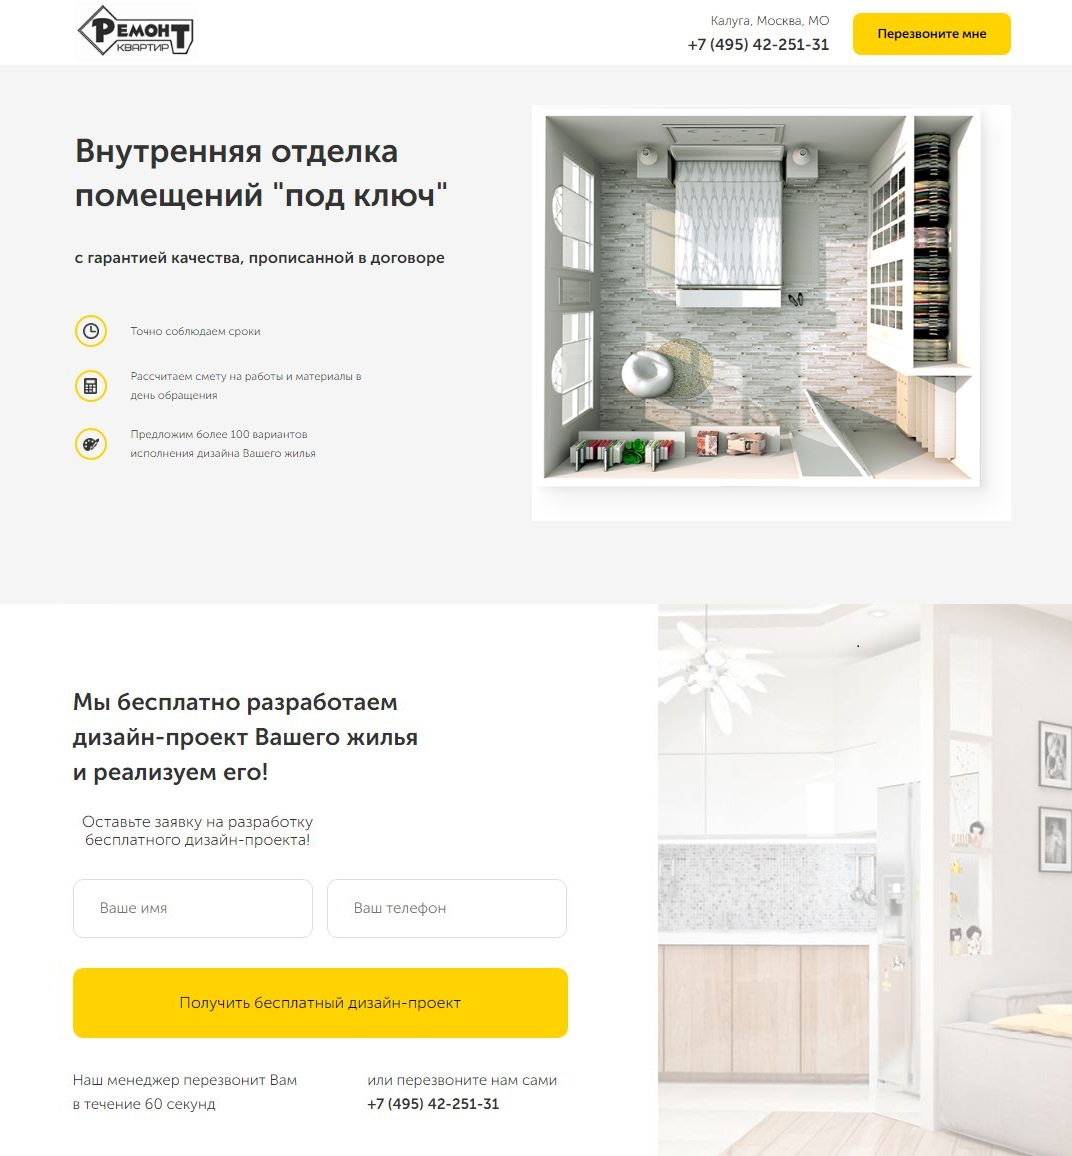
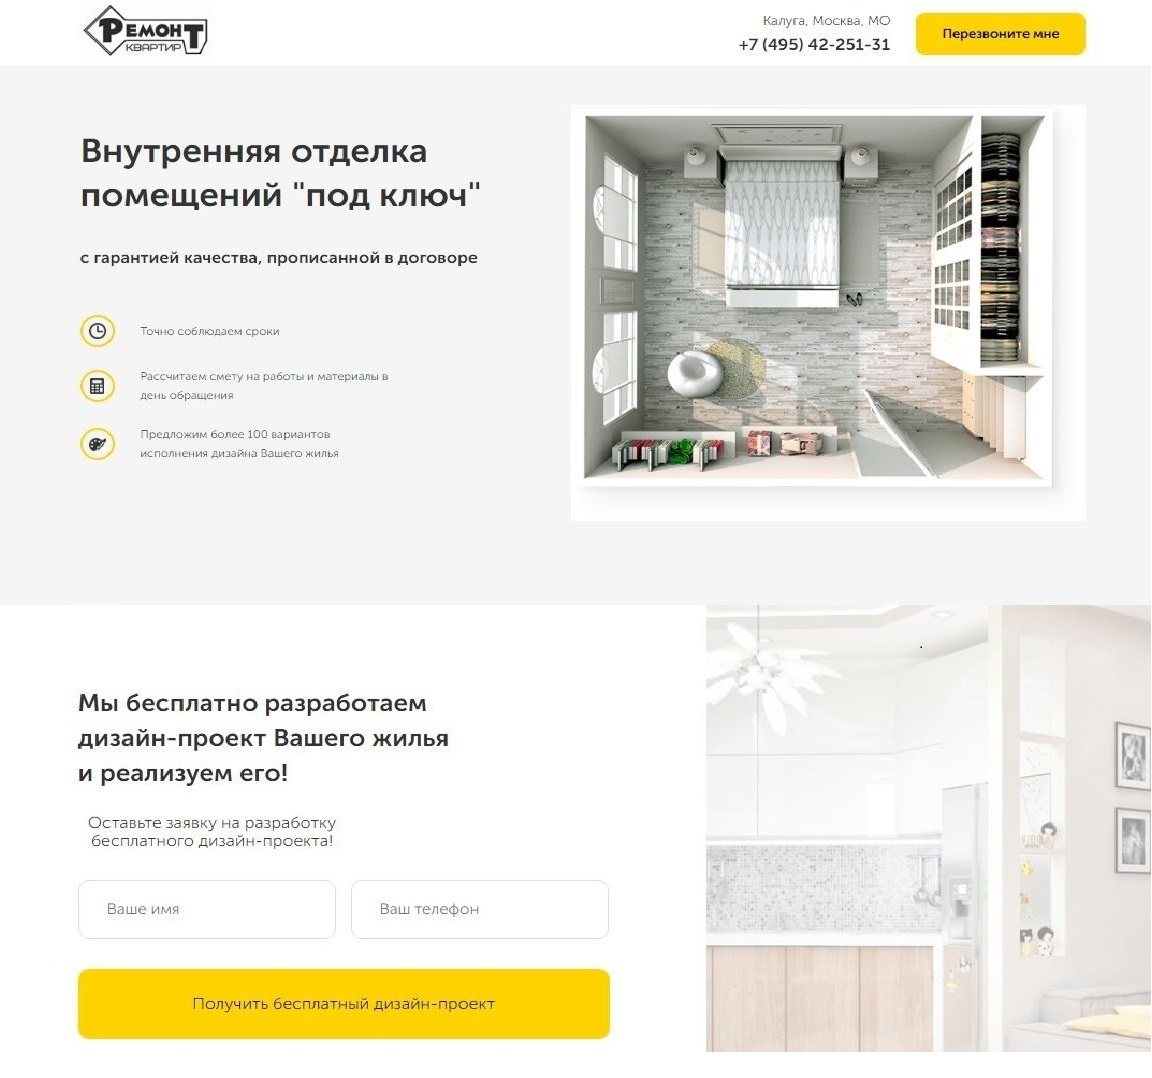
menu fixed by js

diff --git a/src/css/style.css b/src/css/style.css
@@ -21,9 +21,8 @@ img {
   top: 0;
 }
 .main-navigation {
-  padding: 10px;
-  width: 1160px;
-  margin: 0 auto;
+  margin-top: 40px;
+  transition: all 700ms linear;
 }
 .site-navigation {
   margin: 0;
@@ -31,9 +30,14 @@ img {
   display: flex;
   justify-content: space-between;
   align-items: center;
-  padding: 10px;
 }
-
+.menu__top {
+  background: rgba(0,0,0,0.8);
+  height: 55px;
+  padding: 10px 0;
+  margin-top: 0;
+  transition: all 700ms linear;
+}
 .site-navigation a {
   font-weight: 700;
   font-size: 18px;
@@ -222,14 +226,11 @@ img {
   height: 250px;
   transition: transform 0.2s;
 }
-.menu__top {
-  background: rgba(0,0,0,0.8);
-}
 
 .contacts {
   background: url('../img/bg_2.jpg') no-repeat center;
   background-size: cover;
-  padding-bottom: 80px;
+  padding-bottom: 90px;
 }
 .contacts-wrap {
   display: flex;
@@ -341,17 +342,20 @@ img {
 }
 .social-media li {
   padding: 0;
-  margin: 20px;
+  margin: 13px;
 }
 .social-media li:first-child {
   margin-left: 0;
 }
 .social-media a {
   text-align: center;
-  display: inline-block;
-  width: 50px;
-  height: 50px;
-  font-size: 30px;
+  display: flex;
+  align-items: center;
+  justify-content: center;
+  text-decoration: none;
+  width: 30px;
+  height: 30px;
+  font-size: 20px;
   background-color: #fff;
   border-radius: 50%;
 }
@@ -372,6 +376,6 @@ img {
 }
 .footer address {
   color: #fff;
-  font-size: 20px;
+  font-size: 14px;
 }
 

diff --git a/index.html b/index.html
@@ -11,15 +11,17 @@
   <link rel="stylesheet" href="src/css/style.css">
 </head>
 <body>
-  <header class="header" id="navigation">
-    <nav class="main-navigation">    
-      <ul class="site-navigation">
-        <li><a class="logo" href="index.html">Сайт - портфолио</a></li>
-        <li><a href="#about">О себе</a></li>
-        <li><a href="#summary">Резюме</a></li>
-        <li><a href="#portfolio">Портфолио</a></li>
-        <li><a href="#contacts">Контакты</a></li>
-      </ul>
+  <header class="header">
+    <nav class="main-navigation" id="navigation">    
+      <div class="container">
+        <ul class="site-navigation">
+          <li><a class="logo" href="index.html">Сайт - портфолио</a></li>
+          <li><a href="#about">О себе</a></li>
+          <li><a href="#summary">Резюме</a></li>
+          <li><a href="#portfolio">Портфолио</a></li>
+          <li><a href="#contacts">Контакты</a></li>
+        </ul>
+      </div>
     </nav>
   </header>
   <main>

diff --git a/src/main.js b/src/main.js
@@ -1,13 +1,14 @@
-// 3d cards
-const cards = document.querySelectorAll('.card')
 
+const cards = document.querySelectorAll('.card')
+const navigation = document.querySelector('#navigation')
+
+
+// 3d cards
 for (let i = 0; i < cards.length; i++) {
   const card = cards[i];
   card.addEventListener('mousemove', startRotate)
   card.addEventListener('mouseout', stopRotate)
 }
-
-
 
 function startRotate(event) {
 const cardItem = this.querySelector('.card-item')
@@ -21,9 +22,7 @@ function stopRotate(event) {
   cardItem.style.transform = 'rotate(0)'
 }
 
-$(document).ready(function(){
-  var navigation = $('#navigation');
-  $(window).scroll(function(){
-    navigation.addClass('menu__top');
-  });
-});
+// show navigation
+window.addEventListener('scroll', function(event) {
+  window.scrollY > 200 ? navigation.classList.add('menu__top') : navigation.classList.remove('menu__top')
+})
